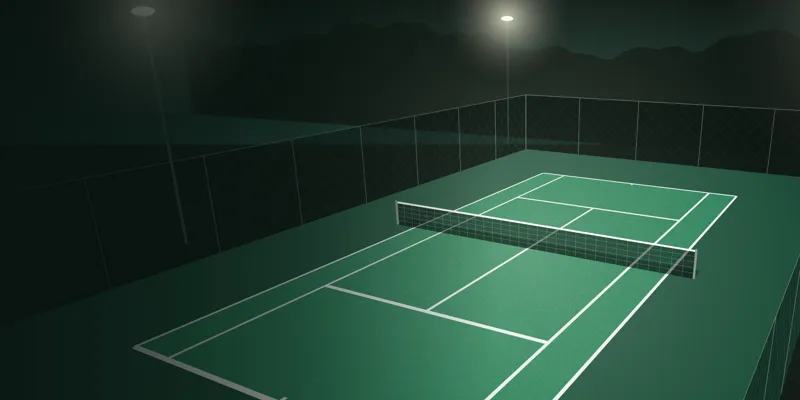
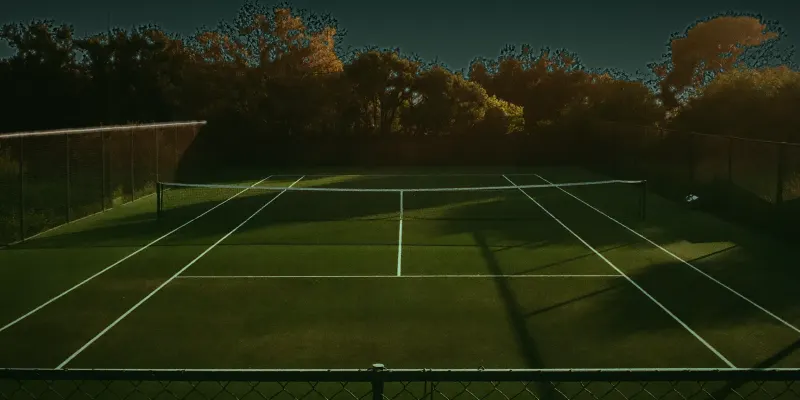
report and landing: real dusk photo hero, one-row dots, real video thumbnail, 2 second clip pause, clearer serve stats, quieter header hover, advice that says when and why

diff --git a/report.html b/report.html
@@ -184,6 +184,7 @@ p { margin: 0; text-wrap: pretty; }
   background: var(--surface); border: 1px solid var(--line-strong); border-radius: var(--radius-lg); box-shadow: var(--shadow-1); overflow: hidden; }
 #watch video { display: block; width: 100%; aspect-ratio: 16 / 9; background: #000; }
 .w-stage { position: relative; }
+.w-next { position: absolute; left: 50%; bottom: 56px; transform: translateX(-50%); padding: 8px 16px; border-radius: 999px; background: rgba(10,20,16,.82); color: #fff; font-weight: 600; pointer-events: none; }
 /* full screen (Nov 1): the whole player grows, so the score, ball marker and point buttons stay on.
    The video's own full-screen button is hidden because it would drop them. iPhones can't make a
    page element full screen, so there the player just fills the window (.w-full). */
@@ -387,12 +388,17 @@ details.fold > summary svg { color: var(--muted); }
 .strip .count{padding:24px 28px;border-left:1px solid var(--line);display:grid;gap:10px;align-content:center;justify-items:end}
 .strip .count .board-num{font-size:3.4rem;color:var(--lost)}
 .strip .count .board-num small{font:500 .95rem var(--sys);color:var(--ink-2);margin-left:6px}
-.strip .count .pips{max-width:230px;justify-content:flex-end}
+.strip .count{min-width:0}
+.strip .count .pips{flex-wrap:nowrap;justify-content:flex-end;min-width:0;width:calc(var(--n)*22px - 6px)}
+.strip .count .pips i{flex:0 1 16px;width:auto;height:auto;aspect-ratio:1;min-width:0}
+.strip .count .pips.many{flex-wrap:wrap;width:auto;max-width:230px}
+.strip .count .pips.many i{flex:none;width:16px}
 
 .rgrid{display:grid;grid-template-columns:minmax(0,1.45fr) minmax(0,1fr);gap:20px;margin-top:20px;align-items:start}
 .rgrid.one{grid-template-columns:minmax(0,1fr)}
 .vhead{display:flex;justify-content:space-between;align-items:baseline;gap:4px 12px;flex-wrap:wrap;margin-bottom:14px}
-.poster{position:relative;display:block;width:100%;aspect-ratio:16/9;padding:0;border:0;border-radius:var(--r-box);overflow:hidden;background:#0B120E url(hero-court-1600.webp) center 80%/cover;cursor:pointer}
+.poster{position:relative;display:block;width:100%;aspect-ratio:16/9;padding:0;border:0;border-radius:var(--r-box);overflow:hidden;background:#0B120E;cursor:pointer}
+.poster video{position:absolute;inset:0;width:100%;height:100%;object-fit:cover;pointer-events:none}
 .poster span{position:absolute;left:50%;top:50%;width:72px;height:72px;margin:-36px 0 0 -36px;border-radius:50%;background:#fff;color:#0F1A14;display:grid;place-items:center;box-shadow:0 6px 20px rgba(0,0,0,.35)}
 .poster svg{width:26px;height:26px;margin-left:4px}
 body.watching .poster{display:none}
@@ -459,9 +465,9 @@ body.watching .end{height:var(--space-6)}
   .strip .tag{padding:12px 18px;display:flex;gap:10px;justify-content:flex-start;align-items:center;font-size:1.2rem}
   .strip .tag small{margin:0}
   .strip .what{padding:18px}
-  .strip .count{border-left:0;border-top:1px solid var(--line);padding:14px 18px;justify-items:start;grid-template-columns:auto 1fr;align-items:center}
+  .strip .count{border-left:0;border-top:1px solid var(--line);padding:14px 18px;justify-items:start;grid-template-columns:minmax(0,1fr);align-items:center}
   .strip .count .board-num{font-size:2.4rem;white-space:nowrap}
-  .strip .count .pips{justify-content:flex-start}
+  .strip .count .pips{justify-content:flex-start;width:100%;gap:5px}
   .rgrid,.pair{gap:12px;margin-top:12px}
   .kpis{grid-template-columns:1fr;gap:12px}
   .sgrid{grid-template-columns:1fr 1fr;gap:12px}
@@ -528,6 +534,7 @@ body.watching .end{height:var(--space-6)}
   <div class="w-stage">
     <video id="wVideo" playsinline controls controlslist="nofullscreen nodownload" disablepictureinpicture preload="metadata"></video>
     <canvas id="wBall" aria-hidden="true"></canvas>
+    <div class="w-next hidden" id="wNextCue" role="status">Next point</div>
     <table class="w-score hidden" id="wScore" title="The score as the app counted it. A missed point shifts it."></table>
   </div>
   <div class="w-msg hidden" id="wMsg" role="status"></div>
@@ -691,9 +698,11 @@ function statRows(s) {
   }
   if (sv.first_serve_points && sv.second_serve_points) {
     const p1 = sv.first_serve_points_won_pct, p2 = sv.second_serve_points_won_pct;
-    add(`${pct(p1)}<br>${pct(p2)}`, "Points won: 1st serve, 2nd serve",
-      `Won ${wonOf(p1, sv.first_serve_points)} of ${sv.first_serve_points} points on the first serve and ${wonOf(p2, sv.second_serve_points)} of ${sv.second_serve_points} on the second. ` +
-      (p1 - p2 >= 15 ? "The second serve is where points slip away: the opponent can attack it." : p2 - p1 >= 15 ? "Points after a second serve went better than after a first serve this match." : "About the same on both serves."));
+    const n1 = sv.first_serve_points, n2 = sv.second_serve_points, few = Math.min(n1, n2) < 5;
+    const val = (p, n) => (n < 5 ? `${wonOf(p, n)} of ${n}` : pct(p));   // a percent of 1 or 2 points misleads
+    add(val(p1, n1), "Won after a first serve", `Won ${wonOf(p1, n1)} of ${n1} points when the first serve went in.`);
+    add(val(p2, n2), "Won after a second serve", `Won ${wonOf(p2, n2)} of ${n2} points played on a second serve. ` +
+      (few ? "Too few points to compare the two serves yet." : p1 - p2 >= 15 ? "The second serve is where points slip away: the opponent can attack it." : p2 - p1 >= 15 ? "Points after a second serve went better than after a first serve this match." : "About the same on both serves."));
   }
   if (sv.points_served) {
     const p = sv.service_points_won_pct;
@@ -778,11 +787,28 @@ function renderPlayer(pl) {
   document.body.appendChild(box);
   $("player").innerHTML = courtHtml(pl);
   $("watchSlot")?.appendChild(box);
+  posterFrame(pl);
+}
+// The thumbnail is the first frame of the first point. Video needs a sign-in or the passcode,
+// so a visitor with neither sees a plain panel (and no passcode box until they press play).
+async function posterFrame(pl) {
+  const box = document.querySelector(".poster");
+  const p = pl.weaknesses.find((x) => x.id === box?.dataset.w);
+  let allowed = !!Site.session();
+  try { allowed = allowed || !!localStorage.getItem("tennis_passcode"); } catch (e) {}
+  if (!box || !p || !allowed) return;
+  const url = await watchUrl().catch(() => null);
+  if (!url || !box.isConnected) return;
+  const v = document.createElement("video");
+  v.muted = true; v.playsInline = true; v.preload = "metadata"; v.tabIndex = -1; v.setAttribute("aria-hidden", "true");
+  v.addEventListener("error", () => v.remove());
+  v.src = `${url}#t=${clipsOf(p)[0][0]}`;
+  box.prepend(v);
 }
 
 // The report's lines talk about "they"; here we talk to the player whose tab is open.
 const you = (t) => String(t ?? "").replace(/\btheir\b/g, "your").replace(/\bthey\b/g, "you");
-const pips = (n, of, cls) => (of && of <= 20 ? `<div class="pips" aria-hidden="true">${Array.from({ length: of }, (_, i) => `<i${i < n ? ` class="${cls}"` : ""}></i>`).join("")}</div>` : "");
+const pips = (n, of, cls) => (of && of <= 20 ? `<div class="pips${of > 15 ? " many" : ""}" style="--n:${of}" aria-hidden="true">${Array.from({ length: of }, (_, i) => `<i${i < n ? ` class="${cls}"` : ""}></i>`).join("")}</div>` : "");
 const orderedOf = (list) => { const ok = list.filter((p) => !p.low_sample); return [...ok.filter((p) => p.tier === "headline"), ...ok.filter((p) => p.tier !== "headline")]; };
 
 function fixRow(p) {
@@ -1023,8 +1049,10 @@ function watchTitle() {
   $("wNext").disabled = W.i >= n - 1;
   document.querySelectorAll(".tbtn").forEach((b) => b.classList.toggle("on", b.dataset.w === W.pat.id && +b.dataset.i === W.i));
 }
+function cancelNext() { clearTimeout(W.next); $("wNextCue").classList.add("hidden"); }
 function watchSeek() {
   W.ended = false;
+  cancelNext();
   const go = () => { wVideo.currentTime = clipsOf(W.pat)[W.i][0]; wVideo.play().catch(() => {}); };
   if (wVideo.readyState >= 1) go(); else wVideo.addEventListener("loadedmetadata", go, { once: true });
   watchTitle();
@@ -1058,6 +1086,7 @@ async function watchOpen(patId, i) {
 }
 function watchClose() {
   clearTimeout(W.retry);
+  cancelNext();
   if (isFull()) toggleFull();
   wVideo.pause();
   $("watch").classList.add("hidden");
@@ -1069,9 +1098,13 @@ wVideo.addEventListener("timeupdate", () => {
   if (!W.pat) return;
   const clips = clipsOf(W.pat), end = clips[W.i][1], t = wVideo.currentTime;
   if (W.ended || t < end || t > end + 3) return;
-  wVideo.pause();             // stop on the moment; the player moves on with "next" (pretend users: clips ran away)
+  wVideo.pause();             // a short stop on the moment, so it's clear a different point comes next (Rudra: 2 seconds)
   W.ended = true;
+  if (W.i >= clips.length - 1) return;
+  $("wNextCue").classList.remove("hidden");
+  W.next = setTimeout(() => { W.i++; watchSeek(); }, 2000);
 });
+wVideo.addEventListener("play", () => { if (W.ended) cancelNext(); });   // the player took over
 wVideo.addEventListener("error", () => {   // an expired link: get a fresh one next time
   if (!wVideo.dataset.src) return;
   W.url = null; delete wVideo.dataset.src;

diff --git a/landing.html b/landing.html
@@ -217,7 +217,7 @@ if (window.Site && Site.session() && !/[?&]stay=1/.test(location.search)) locati
             <p class="n board-num">4<small>of 11 points lost</small></p>
           </div>
           <div class="pips" aria-hidden="true"><i class="lost"></i><i class="lost"></i><i class="lost"></i><i class="lost"></i><i></i><i></i><i></i><i></i><i></i><i></i><i></i></div>
-          <p class="try"><b>Try this next match</b>Aim to clear the net by about a racket's length.</p>
+          <p class="try"><b>Try this next match</b>When you're stretched or the ball is low, hit crosscourt. The net is lower in the middle and you have more court.</p>
           <a class="link" href="/example">Open the full example report</a>
         </div>
       </div>
@@ -289,7 +289,7 @@ if (window.Site && Site.session() && !/[?&]stay=1/.test(location.search)) locati
       <div class="team">
         <span class="lab">Sample team view, made-up names and numbers</span>
         <h3>Team weak spot: errors into the net</h3>
-        <p class="try"><b>Team drill</b>30 baseline shots. Clear the net by a racket's length.</p>
+        <p class="try"><b>Team drill</b>Crosscourt rally to 10. Any ball in the net restarts the count.</p>
         <ul class="who">
           <li><b>Maya</b><span>Errors into the net</span><i>−5</i></li>
           <li><b>Theo</b><span>Errors into the net</span><i>−4</i></li>
@@ -419,16 +419,6 @@ if (window.Site && Site.session()) document.getElementById("backLink").hidden = 
     });
     g.globalAlpha = 1;
   }
-  function drawLights(a) {
-    if (a <= 0) return;
-    [[-12, 19], [12, 19], [-12, -6], [12, -6]].forEach(([x, y]) => {
-      const f = P(x, y, 0), t = P(x, y, 8.6);
-      g.globalAlpha = a; g.strokeStyle = "#35443D"; g.lineWidth = Math.max(1.5, t[2] * .1);
-      g.beginPath(); g.moveTo(f[0], f[1]); g.lineTo(t[0], t[1]); g.stroke(); g.globalAlpha = 1;
-      glow(t[0], t[1], t[2] * 5, "rgba(255,250,225,.75)", a);
-      g.globalAlpha = a; g.fillStyle = "#FFFDF0"; g.beginPath(); g.ellipse(t[0], t[1], t[2] * .42, t[2] * .17, 0, 0, 7); g.fill(); g.globalAlpha = 1;
-    });
-  }
   function drawCourt(intro) {
     const low = 1 - smooth(.12, .6, cam.rise), on = smooth(0, .5, intro);
     g.fillStyle = C.deep; g.fillRect(0, 0, W, H);
@@ -440,10 +430,6 @@ if (window.Site && Site.session()) document.getElementById("backLink").hidden = 
     g.globalAlpha = on * .9;
     poly([[-HW, -HL], [HW, -HL], [HW, HL], [-HW, HL]]); g.fillStyle = g.createPattern(grain, "repeat"); g.fill();
     g.globalAlpha = 1;
-    const c0 = P(0, 0), r = Math.max(W, H) * .58;
-    g.globalCompositeOperation = "screen";                        // floodlight pool on the court
-    glow(c0[0], c0[1], r, "rgba(236,255,214,.3)", smooth(.2, 1, intro));
-    g.globalCompositeOperation = "source-over";
     g.fillStyle = "rgba(4,14,10,.3)";                             // the net's shadow
     if (intro > .5) { g.globalAlpha = smooth(.5, 1, intro) * (1 - cam.rise); poly([[-6.4, 0], [6.4, 0], [6.4, .85], [-6.4, .85]]); g.fill(); g.globalAlpha = 1; }
     g.fillStyle = C.line;
@@ -452,7 +438,6 @@ if (window.Site && Site.session()) document.getElementById("backLink").hidden = 
       if (t) band(l[0], l[1], l[2], l[3], .085 * (across ? lerp(2.1, 1, cam.rise) : lerp(1.3, 1, cam.rise)), t);
     });
     drawFence(low * smooth(.3, .8, intro));
-    drawLights(low * smooth(.4, 1, intro));
   }
   function drawNet(a) {
     if (!a) return;
@@ -480,26 +465,31 @@ if (window.Site && Site.session()) document.getElementById("backLink").hidden = 
     }
     return SHOTS[SHOTS.length - 1][1];
   }
+  // The opening shot is a real photo of a court. The ball is placed on it with the court's own perspective,
+  // measured from the photo's lines; scrolling fades the photo into the app's top-down view.
+  const PW = 1600, PH = 1067, HM = [74.989005, 37.04882, 802.284402, -.977408, 20.682633, 707.352523, -.000974, .045422];
+  const photo = new Image();
+  let fit = { s: 1, x: 0, y: 0 };
+  function fitPhoto(push) {
+    const s = Math.max(W / PW, H / PH) * (wide ? 1.14 : 1) * (1 + push * .07);
+    fit = { s, x: clamp((wide ? W * .6 : W * .5) - PW * s / 2, W - PW * s, 0), y: H - PH * s };
+  }
+  function onPhoto(x, y, z = 0) {
+    const m = (a, b) => { const w = HM[6] * a + HM[7] * b + 1; return [(HM[0] * a + HM[1] * b + HM[2]) / w, (HM[3] * a + HM[4] * b + HM[5]) / w]; };
+    const q = m(x, y), e = m(x + 1, y), px = Math.hypot(e[0] - q[0], e[1] - q[1]);
+    return [fit.x + q[0] * fit.s, fit.y + (q[1] - z * px * .83) * fit.s, px * fit.s];
+  }
   function drawRally(sec, a) {
-    if (a <= 0) return;
+    if (a <= 0 || sec < 0) return;
     const round = Math.floor(sec / (LOOP + HOLD)), t = sec % (LOOP + HOLD), m = round % 2 ? -1 : 1;
     const at = (u) => { const q = ballAt(clamp(u, 0, LOOP)); return [q[0] * m, q[1], q[2]]; };
-    const fade = a * (t > LOOP ? 1 - smooth(LOOP + .8, LOOP + HOLD, t) : smooth(0, .25, t));
-    const n = 16;
-    g.lineCap = "round";
-    for (let i = n; i > 0; i--) {           // trail
-      const p = P(...at(t - i * .02)), q = P(...at(t - (i - 1) * .02));
-      g.globalAlpha = fade * (1 - i / n) * .7; g.strokeStyle = C.ball; g.lineWidth = Math.max(1.5, q[2] * .075 * (1 - i / n));
-      g.beginPath(); g.moveTo(p[0], p[1]); g.lineTo(q[0], q[1]); g.stroke();
-    }
-    const b = at(t), sh = P(b[0], b[1], 0), p = P(...b), r = Math.max(4.5, p[2] * .11);
-    g.globalAlpha = fade * .4; g.fillStyle = "#04100A"; g.beginPath(); g.ellipse(sh[0], sh[1], r * 1.3, r * .5, 0, 0, 7); g.fill();
-    glow(p[0], p[1], r * 5, "rgba(198,218,44,.55)", fade);
-    g.globalAlpha = fade; g.fillStyle = C.ball; g.beginPath(); g.arc(p[0], p[1], r, 0, 7); g.fill(); g.globalAlpha = 1;
-    if (t > LOOP - .3) {                    // the miss
-      const k = clamp((t - LOOP + .3) / .9), q = P(...at(LOOP));
-      g.globalAlpha = fade * (1 - k); g.strokeStyle = C.lost; g.lineWidth = 2.5; g.beginPath(); g.arc(q[0], q[1], r + k * q[2] * .9, 0, 7); g.stroke(); g.globalAlpha = 1;
-    }
+    const fade = a * (t > LOOP ? 1 - smooth(LOOP + .4, LOOP + 1, t) : smooth(0, .25, t));
+    const b = at(t), sh = onPhoto(b[0], b[1]), p = onPhoto(...b), o = onPhoto(...at(t - .012)), r = Math.max(2.2, p[2] * .036);
+    g.globalAlpha = fade * .5 / (1 + b[2] * .5); g.fillStyle = "#050C08";          // soft shadow on the court
+    g.beginPath(); g.ellipse(sh[0], sh[1], r * 1.5, r * .6, 0, 0, 7); g.fill();
+    g.lineCap = "round"; g.strokeStyle = "#DDE86A"; g.lineWidth = r * 2;           // motion blur, as a camera sees it
+    g.globalAlpha = fade * .85; g.beginPath(); g.moveTo(o[0], o[1]); g.lineTo(p[0], p[1]); g.stroke();
+    g.globalAlpha = 1;
   }
 
   // The 11 points one player lost in the example match. Counts are real; spots are illustrative.
@@ -548,11 +538,18 @@ if (window.Site && Site.session()) document.getElementById("backLink").hidden = 
       g = main;
     }
     g.drawImage(bg, 0, 0, W, H);
-    const rallyA = 1 - smooth(.14, .3, p);
-    drawRally(sec - 1.1, sec > 1.1 ? rallyA : 0);
+    const ready = photo.complete && photo.naturalWidth, photoA = ready ? 1 - smooth(.1, .2, p) : 0;
+    if (ready && p < .28) {                 // the photo dips to dark, then the data view comes up: never two courts at once
+      g.globalAlpha = 1 - smooth(.2, .28, p); g.fillStyle = C.deep; g.fillRect(0, 0, W, H); g.globalAlpha = 1;
+    }
+    if (photoA) {
+      fitPhoto(smooth(0, .3, p));
+      g.globalAlpha = photoA; g.drawImage(photo, fit.x, fit.y, PW * fit.s, PH * fit.s); g.globalAlpha = 1;
+      drawRally(sec - .6, photoA);
+    }
     drawMarks(p);
     // Fade for the words over the court on narrow screens and on the left on wide ones.
-    const sh = wide ? g.createLinearGradient(0, 0, W * .62, 0) : g.createLinearGradient(0, 0, 0, H * .72);
+    const sh = wide ? g.createLinearGradient(0, 0, W * .54, 0) : g.createLinearGradient(0, 0, 0, H * .72);
     sh.addColorStop(0, "rgba(10,20,16,.92)"); sh.addColorStop(.6, "rgba(10,20,16,.5)"); sh.addColorStop(1, "rgba(10,20,16,0)");
     g.globalAlpha = 1 - smooth(.2, .45, p) * (wide ? .35 : 1); g.fillStyle = sh; g.fillRect(0, 0, W, H); g.globalAlpha = 1;
     if (!calm) {
@@ -574,6 +571,8 @@ if (window.Site && Site.session()) document.getElementById("backLink").hidden = 
   addEventListener("resize", () => { resize(); onScroll(); });
   new IntersectionObserver(([e]) => { visible = e.isIntersecting; if (visible) tick(); }).observe(stage);
   document.fonts?.ready.then(tick);
+  photo.onload = tick;
+  photo.src = "court-dusk-2400.webp";
   resize(); onScroll();
 })();
 </script>

diff --git a/web_assets/site.css b/web_assets/site.css
@@ -28,7 +28,7 @@ h3 { font-weight: 650; letter-spacing: -0.01em; }
 .brand .wm-ai { margin-left: -4px; color: var(--ball); }
 .topbar .nav { display: flex; flex: none; order: 0; width: auto; margin: 0; padding: 0; background: none; align-items: center; gap: 2px; }
 .topbar .nav a { display: inline-flex; align-items: center; min-height: 44px; padding: 0 14px; color: #E6ECE8; font: 500 1rem/1 var(--sys); text-decoration: none; white-space: nowrap; }
-.topbar .nav a:hover { color: #fff; text-decoration: underline; text-underline-offset: 4px; }
+.topbar .nav a:hover { color: #fff; background: none; text-decoration: underline; text-decoration-color: var(--ball); text-decoration-thickness: 2px; text-underline-offset: 6px; }
 .topbar .nav a[aria-current="page"] { color: #fff; box-shadow: inset 0 -2px 0 var(--ball); }
 .topbar .nav a.cta { min-height: 44px; margin-left: 8px; padding: 0 20px; border-radius: 999px; background: var(--ball); color: var(--ball-ink); font-weight: 600; box-shadow: none; }
 .topbar .nav a.cta:hover { background: #D3E63F; color: var(--ball-ink); text-decoration: none; }

diff --git a/Code/insights.py b/Code/insights.py
@@ -29,7 +29,7 @@ MAX_TOKENS = 4000
 MAX_WEAKNESSES = 4     # top headline + context weaknesses sent per player
 MAX_STRENGTHS = 3
 
-VERSION = 4   # bump to regenerate cached insights.json after a prompt change
+VERSION = 5   # bump to regenerate cached insights.json after a prompt change
 
 SYSTEM = """You are a friendly tennis coach writing the "how to improve" section of a match report for club and school players.
 
@@ -37,20 +37,22 @@ You get, for each player, patterns diagnosed from tracked match video: a title, 
 
 For every pattern give:
 0. headline: what happened and what it cost, at most 10 words (e.g. "Net errors cost you 4 points").
-   try_this: the single most useful change for next time, at most 12 words, starting with a verb (e.g. "Aim higher over the net on every baseline shot").
+   try_this: the single most useful change for next time, at most 20 words: a decision to make during a point, with when it applies and why it works (e.g. "When you're stretched or the ball is low, hit crosscourt: the net is lower in the middle and you have more court").
+   Never restate the problem or just name its opposite ("hit higher", "aim over the net", "get more first serves in", "make fewer errors"). The player already knows that. Tell them something they can use: when to do it, what to do, and the tennis reason it works.
 Then the details behind a "show more" tap:
 1. match_strategy: a change in what they choose to do during points (targets, shot choice, where to stand, when to attack or stay patient).
 2. habit: a change in routine, mindset or body language they can apply right away (between-point routine, breathing before a second serve, committing to a target before swinging, resetting after an error).
 3. practice_drill: one drill with a clear count or goal they can track (e.g. "hit 20 second serves; aim for 16 in the box").
 
 Write so a 12-year-old understands it:
-- Describe heights, distances and speeds with things they can picture on court, never bare numbers or percentages of effort. Say "aim so the ball would pass over the net by about a racket's length", "a target about as high as the top of the net post", "land the ball between the service line and the baseline", "a smooth swing you could repeat ten times in a row" - not "1 m clearance" or "75% pace".
+- Describe heights, distances and speeds with things they can picture on court, never bare numbers or percentages of effort. Say "a target about as high as the top of the net post", "land the ball between the service line and the baseline", "a smooth swing you could repeat ten times in a row" - not "1 m clearance" or "75% pace".
 - Short sentences, no jargon (if a tennis term is needed, explain it in a few words). Speak to the player as "you".
 - match_strategy, habit and practice_drill: one short sentence each, at most 25 words. Players read this on a phone; every extra word gets skipped.
 - Plain punctuation: no em dashes.
 
 Rules:
-- Ground every suggestion in the pattern's numbers and say why it matters ("this cost you 4 points"). Don't invent facts not in the data.
+- Ground every suggestion in the pattern's numbers and say why it matters ("this cost you 4 points"). Don't invent facts about this match. Use the match context (how long the points were, how points were lost and won, serve numbers) to pick advice that fits this player.
+- General tennis knowledge is welcome when it explains why: the net is lower in the middle than at the sides, a crosscourt shot has more court, a deep ball gives the opponent less time. Choose the idea a good coach would add, not the first obvious one.
 - Tactics, habits and practice only. Do not prescribe stroke mechanics (grip, swing path, footwork technique, body position): the video can't see technique, so that belongs to a coach.
 - Weaknesses: what to change. Strengths: how to use it more on purpose.
 - Use words like "early sign" only for patterns that happened fewer than 3 times.
@@ -104,6 +106,7 @@ def build_llm_input(profile):
         players.append({
             "player_id": pid,
             "playstyle": pl["playstyle"]["summary"],
+            "match_context": {k: pl["stats"].get(k) for k in ("rally_length", "lost_by", "won_by", "serve", "return")},
             "points_won": pl["stats"]["points_won"], "points_lost": pl["stats"]["points_lost"],
             "weaknesses": pick(pl["weaknesses"], MAX_WEAKNESSES),
             "strengths": pick(pl["strengths"], MAX_STRENGTHS),

diff --git a/modal_app.py b/modal_app.py
@@ -2120,7 +2120,7 @@ def web_app():
     _assets = {"passcode.js": "text/javascript", "site.js": "text/javascript", "site.css": "text/css", "tokens.css": "text/css", "court.css": "text/css",
                "recorder.js": "text/javascript", "record_match.js": "text/javascript",
                "manifest.webmanifest": "application/manifest+json",
-               "icon.svg": "image/svg+xml", "icon-192.png": "image/png", "icon-512.png": "image/png",
+               "icon.svg": "image/svg+xml", "icon-192.png": "image/png", "icon-512.png": "image/png", "court-dusk-2400.webp": "image/webp",
                **{f"{n}-{w}.webp": "image/webp" for n in ("hero-court", "band-phone", "band-ball", "court-night") for w in (800, 1600)}}
 
     @fastapi_app.get("/{name}")

diff --git a/DESIGN.md b/DESIGN.md
@@ -44,7 +44,8 @@
 
 ## Landing page (`/`, Nov 4)
 - One shared header (`site.js`, same logo, links change when signed in) and footer. The logo always opens this page; signed-in players also get an About link. Signed-in visitors see "Go to your dashboard"; the app pages link back here from the footer and the empty dashboard.
-- `court-night-*.webp`: a still of the landing court, used as the top band on the dashboard, report, account and new analysis pages, so every page opens on the same court.
+- Landing opens on a real photo (`court-dusk-2400.webp`, the film court photo with the light pole removed, graded to dusk), with a small ball placed using the court's own perspective; no lights, no glow (Rudra, Nov 4: less "AI vibe-code"). Scrolling dips to dark, then the drawn top-down data view takes over.
+- `court-night-*.webp`: a crop of that photo, used as the top band on the dashboard, report, account and new analysis pages, so every page opens on the same court.
 - Colours added: `--court-deep` #0A1410 (page dark), `--court-out` #154734, `--court-in` #1E7A52, `--court-line` #EEF2EF, `--lost-glow` #F2836F.
 - **Wow moment:** a drawn court, seen from the back fence where the phone films, with a rally that ends in the net. Scrolling raises the camera overhead, the 11 lost points of the example match land on the court, then the net errors light up and the #1 fix card appears. Real counts; spots labelled as illustration.
 - Order: court story, how it works (3 steps), the report, 17 of 20 band, for coaches (sample team view, labelled), for parents and schools, Every point counts. No price shown yet. Motion is this one moment only; reduced motion or no scripts shows everything stacked.
